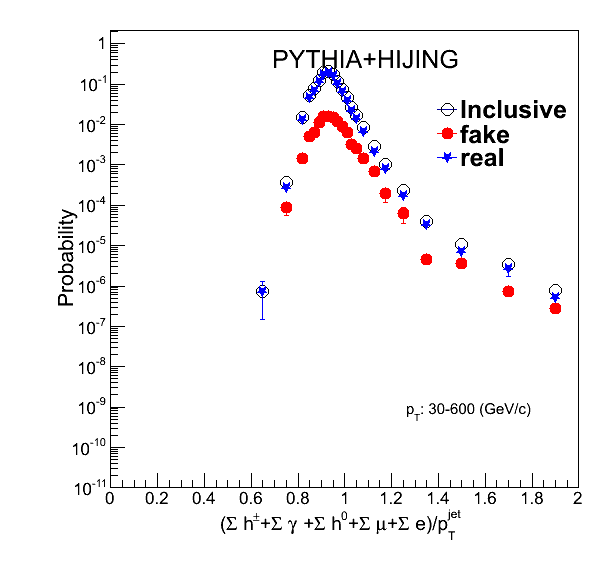
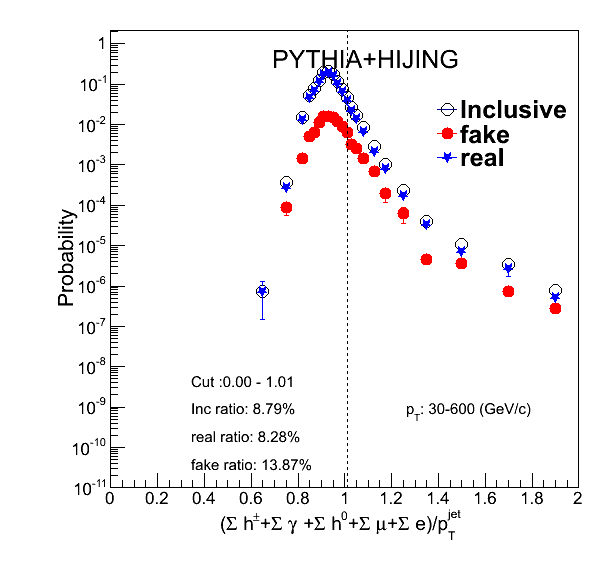
jet id

Changed region(s): [[0.302, 0.6538, 0.5134, 0.7727], [0.302, 0.8024, 0.5134, 0.8322]]

diff --git a/jetRpA/RpA/NewMC/JetID/ptJetIDOnlyPPb.C b/jetRpA/RpA/NewMC/JetID/ptJetIDOnlyPPb.C
@@ -205,6 +205,10 @@ c2->cd(1)->SetLogy();
 rehisto_hPPb_JetID->Draw("E1");
 rehisto_hPPb_JetID_fake->Draw("E1same");
 rehisto_hPPb_JetID_real->Draw("E1same");
+TLine *l = new TLine(JetIDcut[1],0,JetIDcut[1],rehisto_hPPb_JetID->GetMaximum());
+l->SetLineStyle(2);
+l->SetLineWidth(1.2);
+l->Draw("same");
 if(ilist==7)
 TLegend *leg2=new TLegend(0.7,0.32,0.9,0.45);
 else
@@ -224,6 +228,10 @@ T7.SetNDC();
 T7.SetTextSize(0.03);
 T7.SetTextFont(42);
 T7.DrawLatex(0.65,0.28,Form("p_{T}: %.f-%.f (GeV/c)",xrange_pt[0],xrange_pt[1]));
+T7.DrawLatex(0.25,0.33,Form("Cut :%.2f - %.2f",JetIDcut[0],JetIDcut[1]));
+T7.DrawLatex(0.25,0.28,Form("Inc ratio: %.2f%%",rehisto_hPPb_JetID->Integral(rehisto_hPPb_JetID->FindBin(JetIDcut[1]), -1)/rehisto_hPPb_JetID->Integral(0, -1)*100));
+T7.DrawLatex(0.25,0.23,Form("real ratio: %.2f%%",rehisto_hPPb_JetID_real->Integral(rehisto_hPPb_JetID_real->FindBin(JetIDcut[1]), -1)/rehisto_hPPb_JetID_real->Integral(0, -1)*100));
+T7.DrawLatex(0.25,0.18,Form("fake ratio: %.2f%%",rehisto_hPPb_JetID_fake->Integral(rehisto_hPPb_JetID_fake->FindBin(JetIDcut[1]), -1)/rehisto_hPPb_JetID_fake->Integral(0, -1)*100));
 /*T7.DrawLatex(0.65,0.28,Form("Inc: Mean=%.3f",hPPb_JetID->GetMean()));
 T7.DrawLatex(0.65,0.24,Form("Fake: Mean=%.3f",hPPb_JetID_fake->GetMean()));
 T7.DrawLatex(0.65,0.2,Form("Fake: RMSError=%.3f",hPPb_JetID_fake->GetRMSError()));
